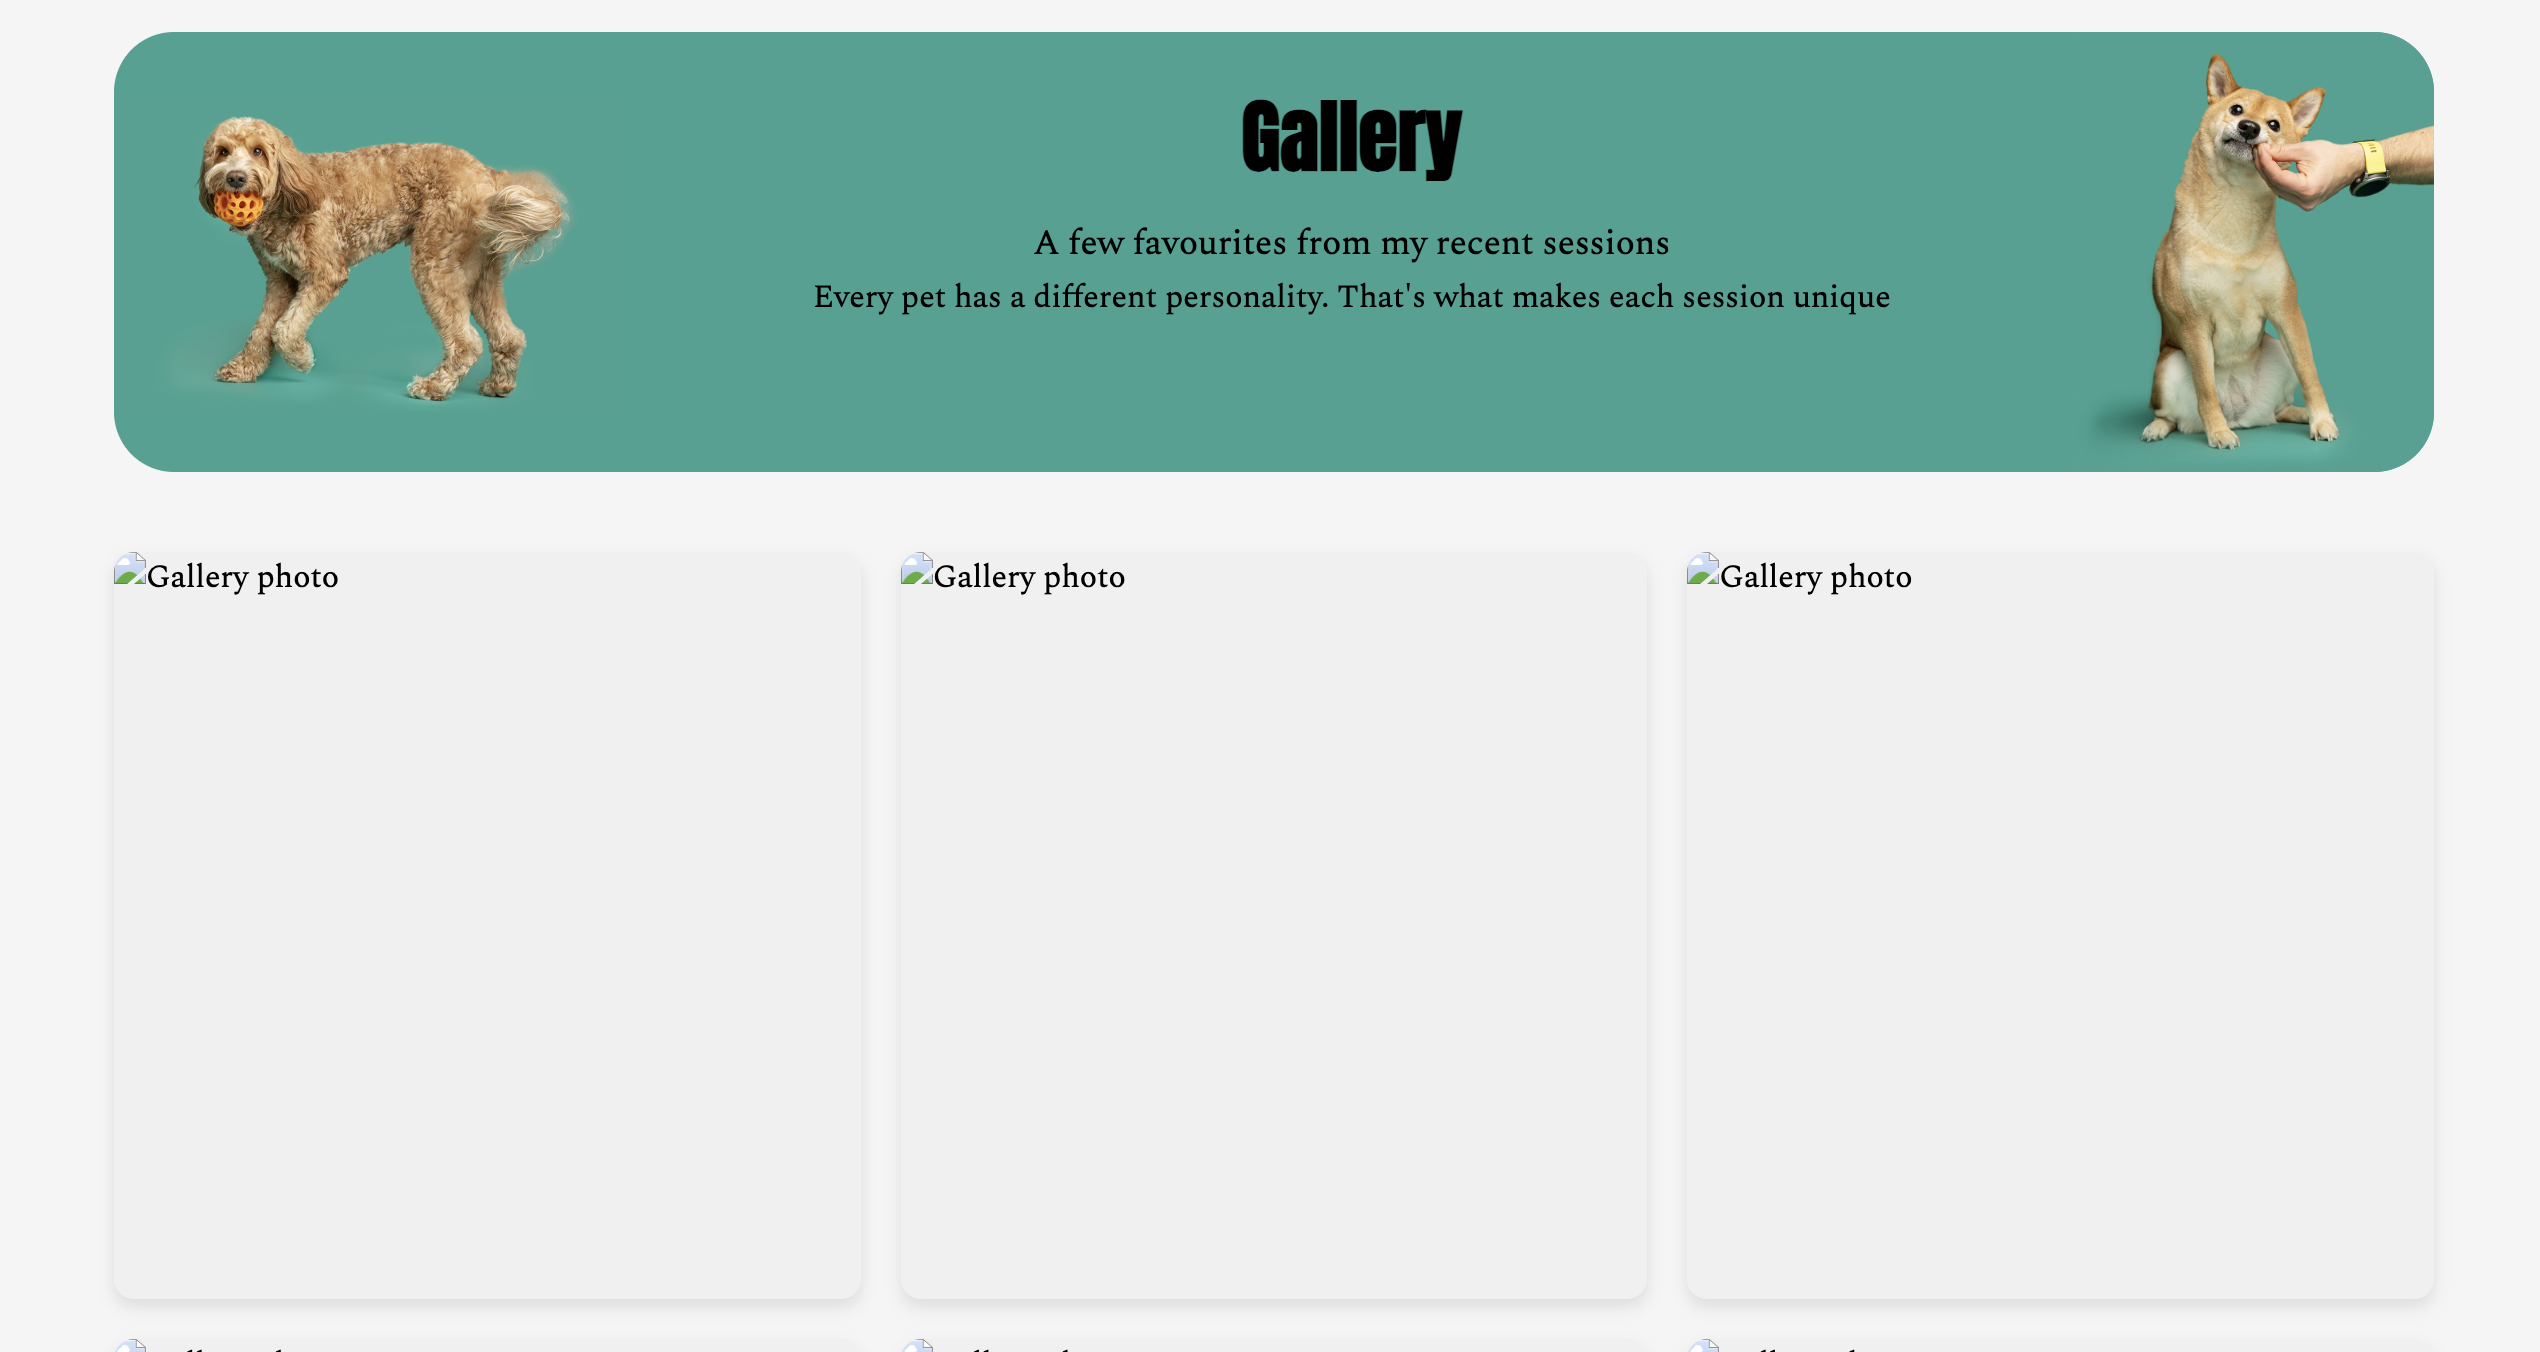
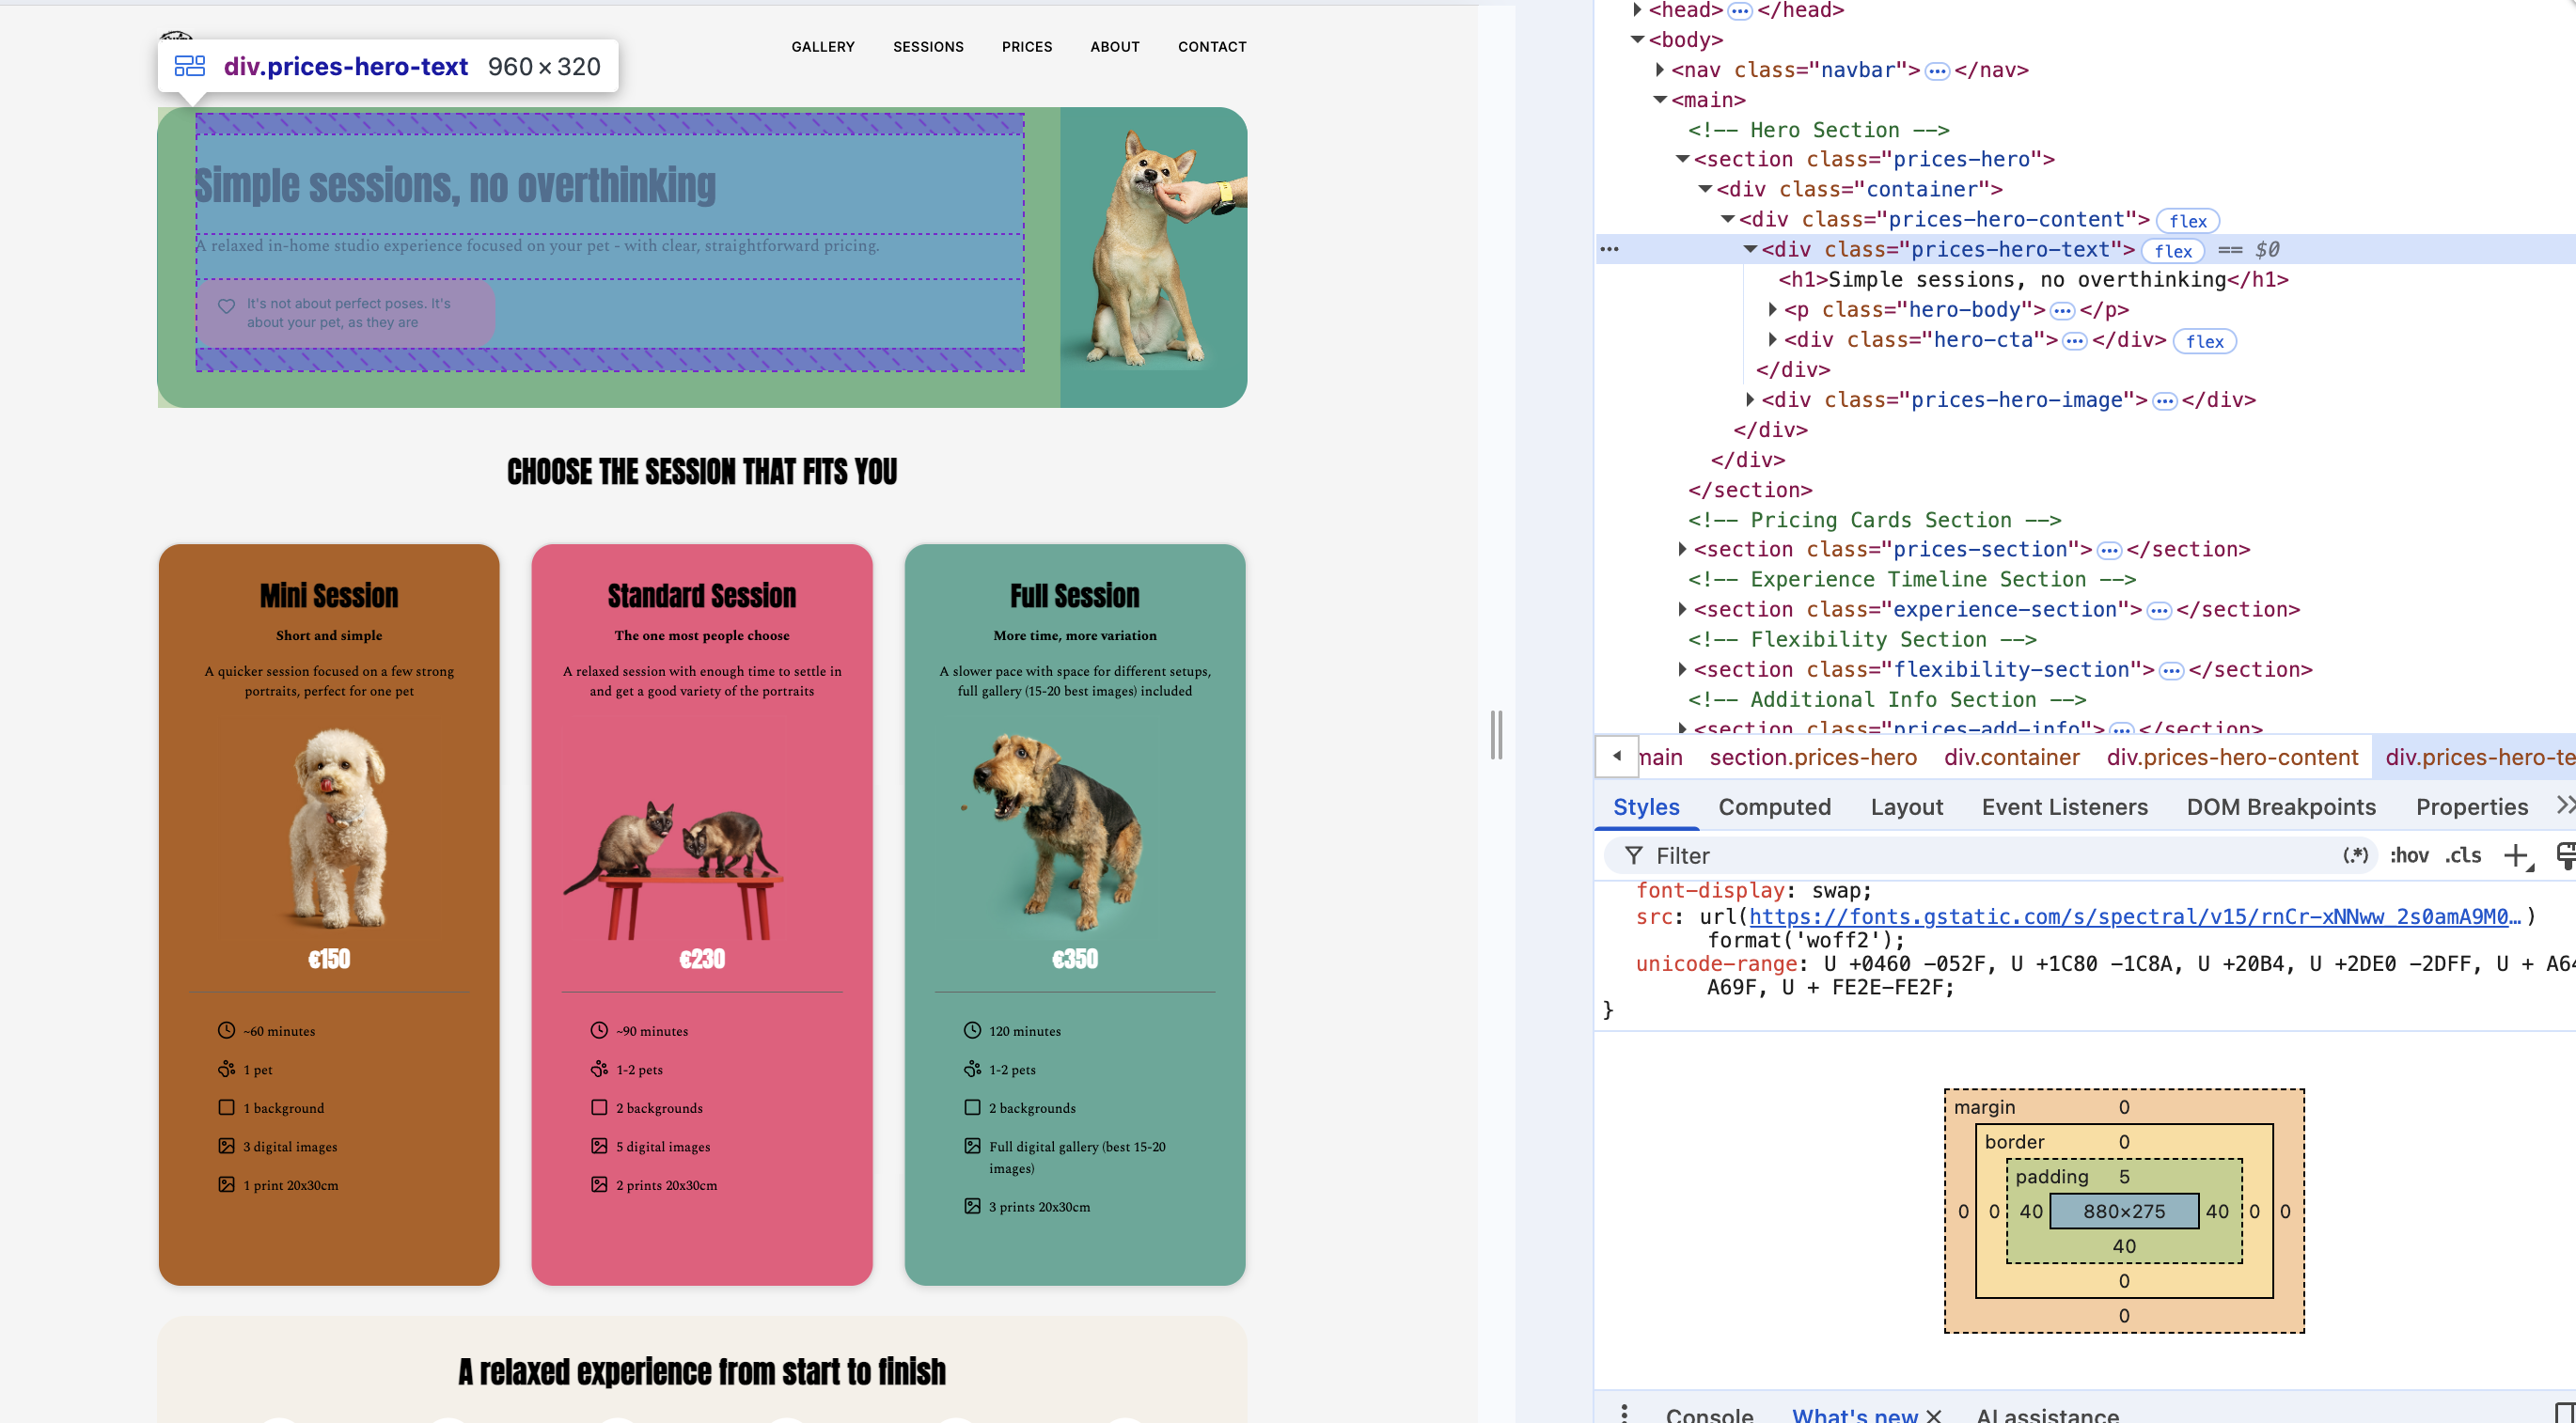
prices subpage updated

diff --git a/public/styles.css b/public/styles.css
@@ -754,8 +754,6 @@ footer {
 }
 
 .pricing-card:hover {
-  transform: translateY(-5px);
-  box-shadow: 0 8px 16px rgba(0, 0, 0, 0.15);
 }
 
 .pricing-card.featured {
@@ -2047,11 +2045,13 @@ footer {
 
 .prices-hero-image {
   flex: 0 0 auto;
-  width: 400px;
+  width: 350px;
   height: 100%;
   overflow: hidden;
   border-radius: 0 30px 30px 0;
   order: 2;
+  display: flex;
+  align-items: flex-end;
 }
 
 .prices-hero-image img {
@@ -2059,12 +2059,11 @@ footer {
   height: 100%;
   object-fit: cover;
   display: block;
-  margin-top: 20px;
 }
 
 .prices-hero-text {
   flex: 1;
-  padding: 40px;
+  padding: 0 40px;
   display: flex;
   flex-direction: column;
   justify-content: center;
@@ -2073,26 +2072,28 @@ footer {
 .prices-hero-text h1 {
   font-family: 'Anton', sans-serif;
   font-size: 2.6rem;
-  margin: 30px 0 25px 0;
+  margin: 0 0 25px 0;
   color: #000;
   line-height: 1.2;
   font-weight: 400;
 }
 
 .prices-hero-text .hero-body {
-  font-family: 'Inter', sans-serif;
-  font-size: 1rem;
+  font-family: 'Spectral', serif;
+  font-size: 1.1rem;
   margin: 0 0 20px 0;
   color: #000;
   line-height: 1.6;
+  font-weight: 400;
 }
 
 .prices-hero-text .hero-secondary {
-  font-family: 'Inter', sans-serif;
-  font-size: 0.95rem;
+  font-family: 'Spectral', serif;
+  font-size: 1rem;
   margin: 0 0 25px 0;
   color: #000;
   line-height: 1.5;
+  font-weight: 400;
 }
 
 .hero-cta {
@@ -2158,20 +2159,18 @@ footer {
 }
 
 .pricing-card:hover {
-  transform: translateY(-5px);
-  box-shadow: 0 4px 12px rgba(0, 0, 0, 0.15);
 }
 
 .pricing-card-basic {
-  background-color: #6cbfcd;
+  background-color: #b25e1c;
 }
 
 .pricing-card-standard {
-  background-color: #eb4c74;
+  background-color: #ee567c;
 }
 
 .pricing-card-premium {
-  background-color: #39a291;
+  background-color: #58a998;
 }
 
 .card-price-section {
@@ -2200,13 +2199,21 @@ footer {
 }
 
 .pricing-card-basic .card-price-section .card-image {
-  width: 70%;
-  margin-left: auto;
-  margin-right: auto;
+  width: 100%;
+  display: flex;
+  align-items: center;
+  justify-content: center;
+}
+
+.pricing-card-basic .card-price-section .card-image img {
+  width: 80%;
+  height: auto;
+  display: block;
+  object-fit: cover;
 }
 
 .card-price-section .card-image img {
-  width: 100%;
+  width: 80%;
   height: auto;
   display: block;
   object-fit: cover;
@@ -2221,17 +2228,17 @@ footer {
 
 .card-tagline {
   font-family: 'Spectral', serif;
-  font-size: 0.9rem;
+  font-size: 1rem;
   font-weight: 700;
   margin: 0 0 15px 0;
   color: #000;
 }
 
 .card-price {
-  font-family: 'Anton', sans-serif;
-  font-size: 3rem;
-  margin: 0;
-  color: #000 !important;
+  font-family: 'Spectral', serif;
+  font-size: 3.8rem;
+  margin: 15px 0 0 0;
+  color: #fff !important;
 }
 
 .card-content {
@@ -2241,7 +2248,6 @@ footer {
   gap: 20px;
   flex: 1;
   background-color: transparent;
-  border-top: 1px solid #666;
   margin: 0;
 }
 
@@ -2421,7 +2427,7 @@ footer {
 
 .flexibility-text h3 {
   font-family: 'Anton', sans-serif;
-  font-size: 1.8rem;
+  font-size: 1.5rem;
   margin: 0 0 15px 0;
   color: #fff;
   font-weight: bold;
@@ -3537,7 +3543,7 @@ footer {
 }
 
 .card-price {
-  font-family: 'Anton', sans-serif;
+  font-family: 'Spectral', serif;
   font-size: 1.5rem;
   font-weight: 700;
   color: #000;
@@ -3678,6 +3684,7 @@ footer {
     flex-direction: column;
     height: auto;
     min-height: 320px;
+    padding: 0;
   }
 
   .prices-hero-image {
@@ -3865,8 +3872,13 @@ footer {
     padding: 20px 0;
   }
 
+  .prices-hero-content {
+    padding: 10px 0 30px 0;
+  }
+
   .prices-hero-text h1 {
     font-size: 2rem;
+    text-align: center;
   }
 
   .prices-hero-text p {